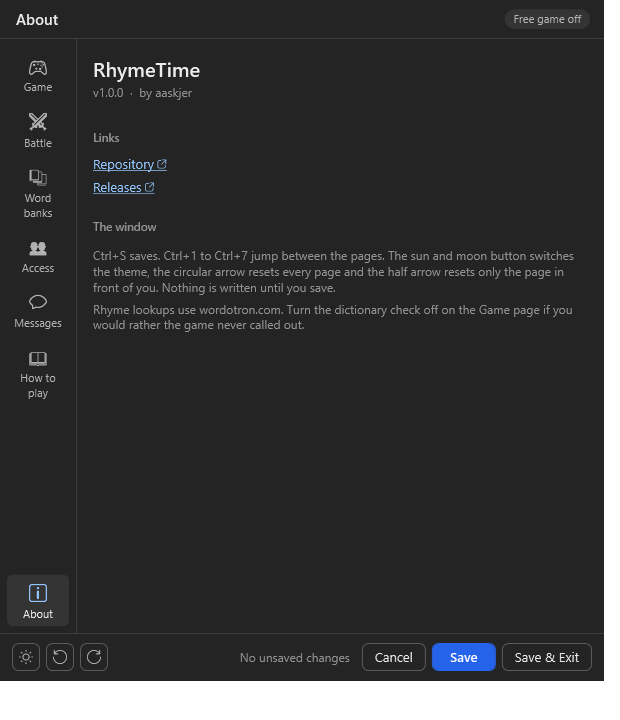
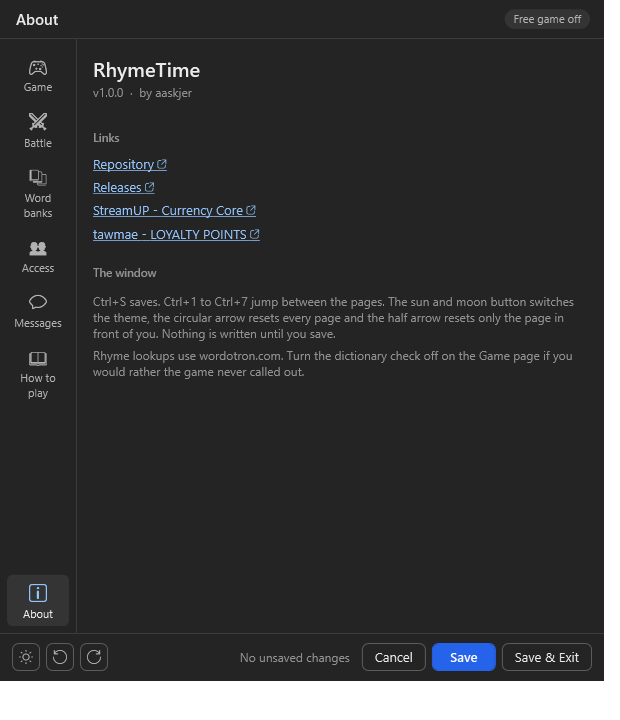
Detect tawmae's LOYALTY POINTS beside StreamUP's Currency Core
The points variable the detection found was never used: every balance
was read and written through the settings file's own variable, so a
detected currency only changed the name chat saw.

Changed region(s): [[0.1532, 0.275, 0.9194, 0.5194]]

diff --git a/FAQ.md b/FAQ.md
@@ -176,10 +176,19 @@ match one of them; endings and the dictionary play no part.
 
 **Q: What currency does the game use?**
 
-StreamUP's **Currency Core** is picked up automatically — the game reads its
-`currency_ProductSettings` global and takes the variable and the display name from there. Without
-it, the *Points variable* and *Points name* on the Game page apply: the variable is the Streamer.bot
-user variable the stake comes out of, the name fills `{currency}` in chat.
+Whichever one you have. The game looks for them in this order:
+
+| | Where it looks | What it takes |
+|---|---|---|
+| 1 | **Currency Core** by StreamUP | `currency_ProductSettings` → `pointsVar`, `pointsName` |
+| 2 | **LOYALTY POINTS** by tawmae | `tawmae_Settings_LOYALTY POINTS` → `globalVariableName`, `pointsName` |
+| 3 | tawmae's older globals | `loyaltyPointsVariable`, `loyaltyPointsName` |
+| 4 | The settings window | *Points variable* and *Points name* on the Game page |
+
+The first one that answers wins, and the Streamer.bot log says which it was. Neither product needs
+anything configured here; the two fields on the Game page are for a points system of your own — the
+variable is the Streamer.bot user variable the stake comes out of, the name fills `{currency}` in
+chat.
 
 ***
 

diff --git a/CHANGELOG.md b/CHANGELOG.md
@@ -50,8 +50,11 @@ two files of your own under `Chat Games/RhymeTime`.
   chat. A group that no longer exists is logged rather than failing the round.
 - **Cooldowns written onto the command.** The two cooldowns on the Game page are saved onto `!Rhyme`
   itself, so Streamer.bot's own fields follow the window instead of fighting it.
-- **Currency detection.** StreamUP's Currency Core is picked up from its `currency_ProductSettings`
-  global; any other currency takes one variable name on the Game page.
+- **Currency detection.** Currency Core by StreamUP is picked up from its `currency_ProductSettings`
+  global, LOYALTY POINTS by tawmae from `tawmae_Settings_LOYALTY POINTS` or the older
+  `loyaltyPointsVariable` / `loyaltyPointsName` globals, in that order. Whichever answers first
+  supplies both the variable the points live in and the name chat sees; the Game page is only for a
+  points system of your own.
 - **An update check** in the background when the window opens, as a pill in the header rather than a
   popup that blocks the window.
 - Settings and word banks are written atomically: the previous copy is kept as `.bak`, and a damaged

diff --git a/Setup-Guide.md b/Setup-Guide.md
@@ -35,7 +35,10 @@ offer, which word bank a round draws from, and whether a guess that merely ends 
 checked against a dictionary first.
 
 Under it the currency — the Streamer.bot user variable the stake comes out of and the name that
-fills `{currency}` — then the bets and the payout. The default bet is what `!Rhyme` stakes without
+fills `{currency}`. Currency Core by StreamUP and LOYALTY POINTS by tawmae are found on their own
+and override both fields, Currency Core first, so those two need nothing from you.
+
+Then the bets and the payout. The default bet is what `!Rhyme` stakes without
 an amount; the minimum and maximum frame what a chatter may type. Set the default bet to `0` and the
 game is **free**: nothing is staked and nothing is paid out, and the header says so.
 

diff --git a/README.md b/README.md
@@ -123,9 +123,9 @@ punctuation and double spaces ignored.
 
 ## Points
 
-The currency is detected from StreamUP's **Currency Core** when it is installed — the game reads its
-`currency_ProductSettings` global and uses the variable and name from there. Any other currency
-takes one variable name on the Game page.
+The currency finds itself. **Currency Core** by StreamUP is used when it is installed, then
+**LOYALTY POINTS** by tawmae, and only if neither is there do the *Points variable* and *Points
+name* on the Game page apply. Nothing to configure for either product.
 
 A win pays `stake × multiplier` for the bank the word came from (1.5× easy, 2× medium, 3× hard by
 default). A loss costs the stake. A battle pays the moderator's stake if they staked one, otherwise
